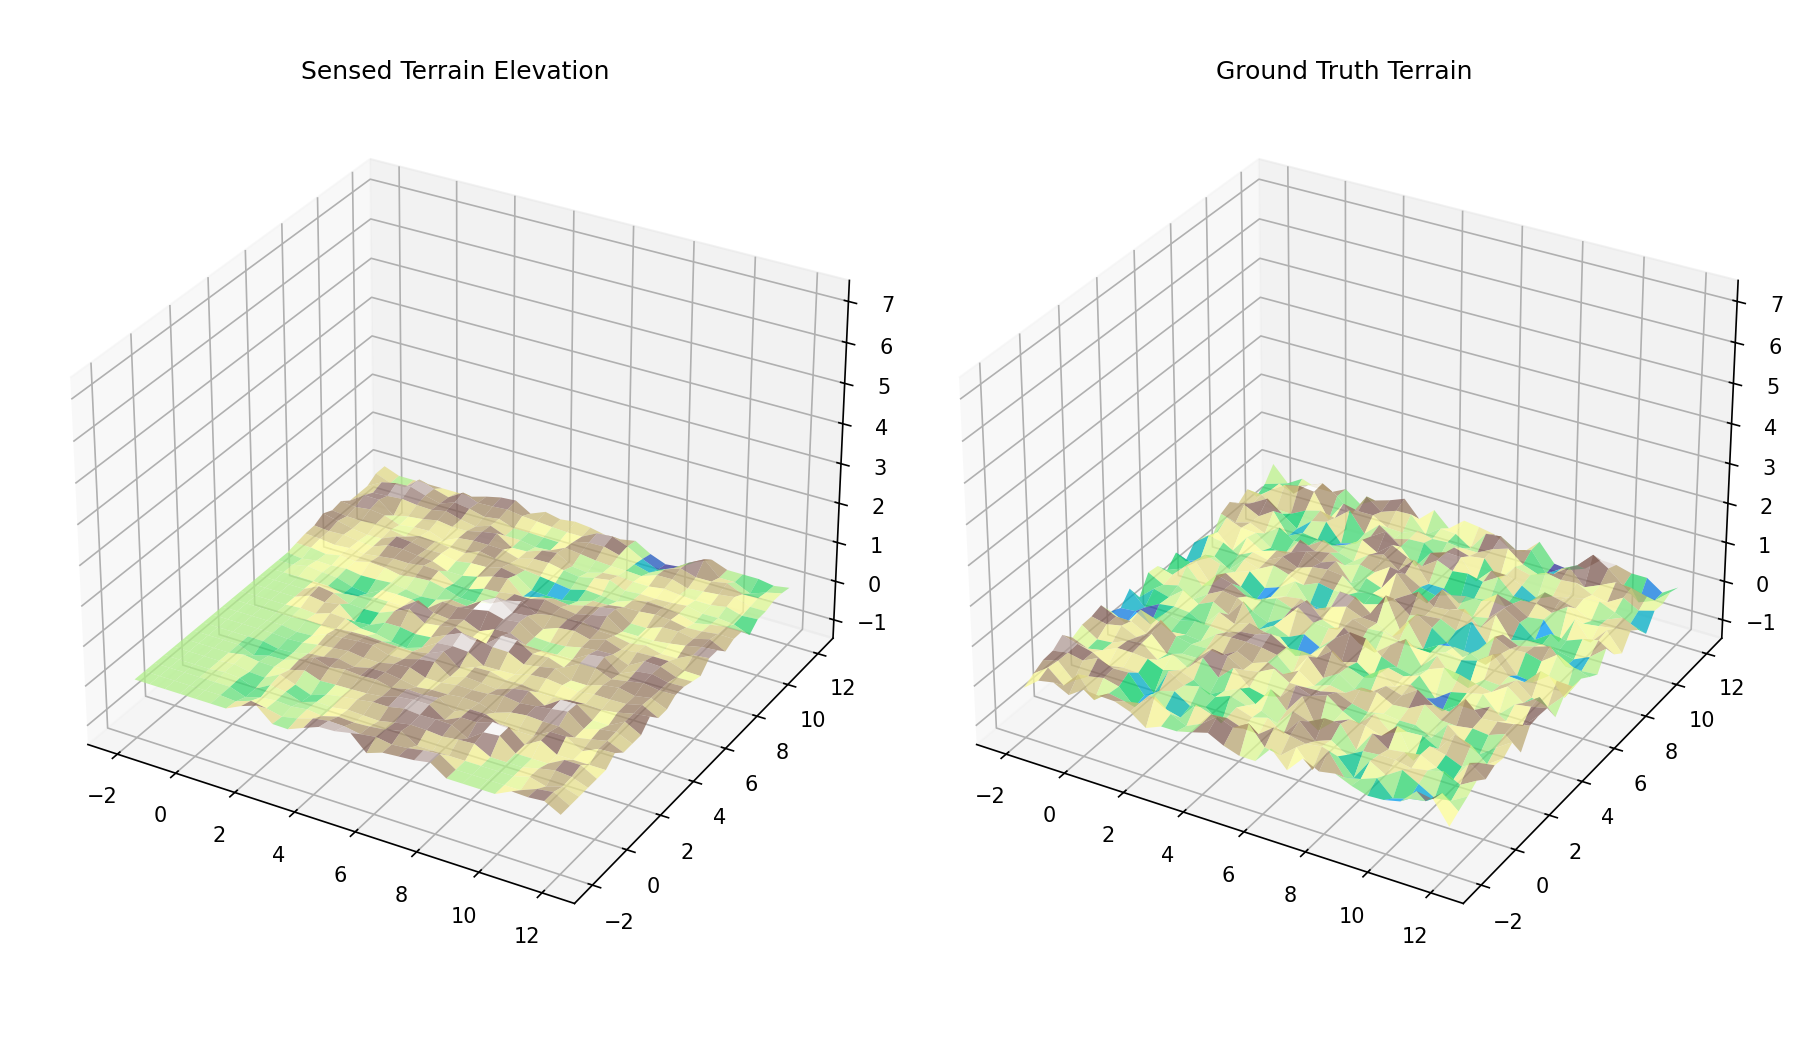
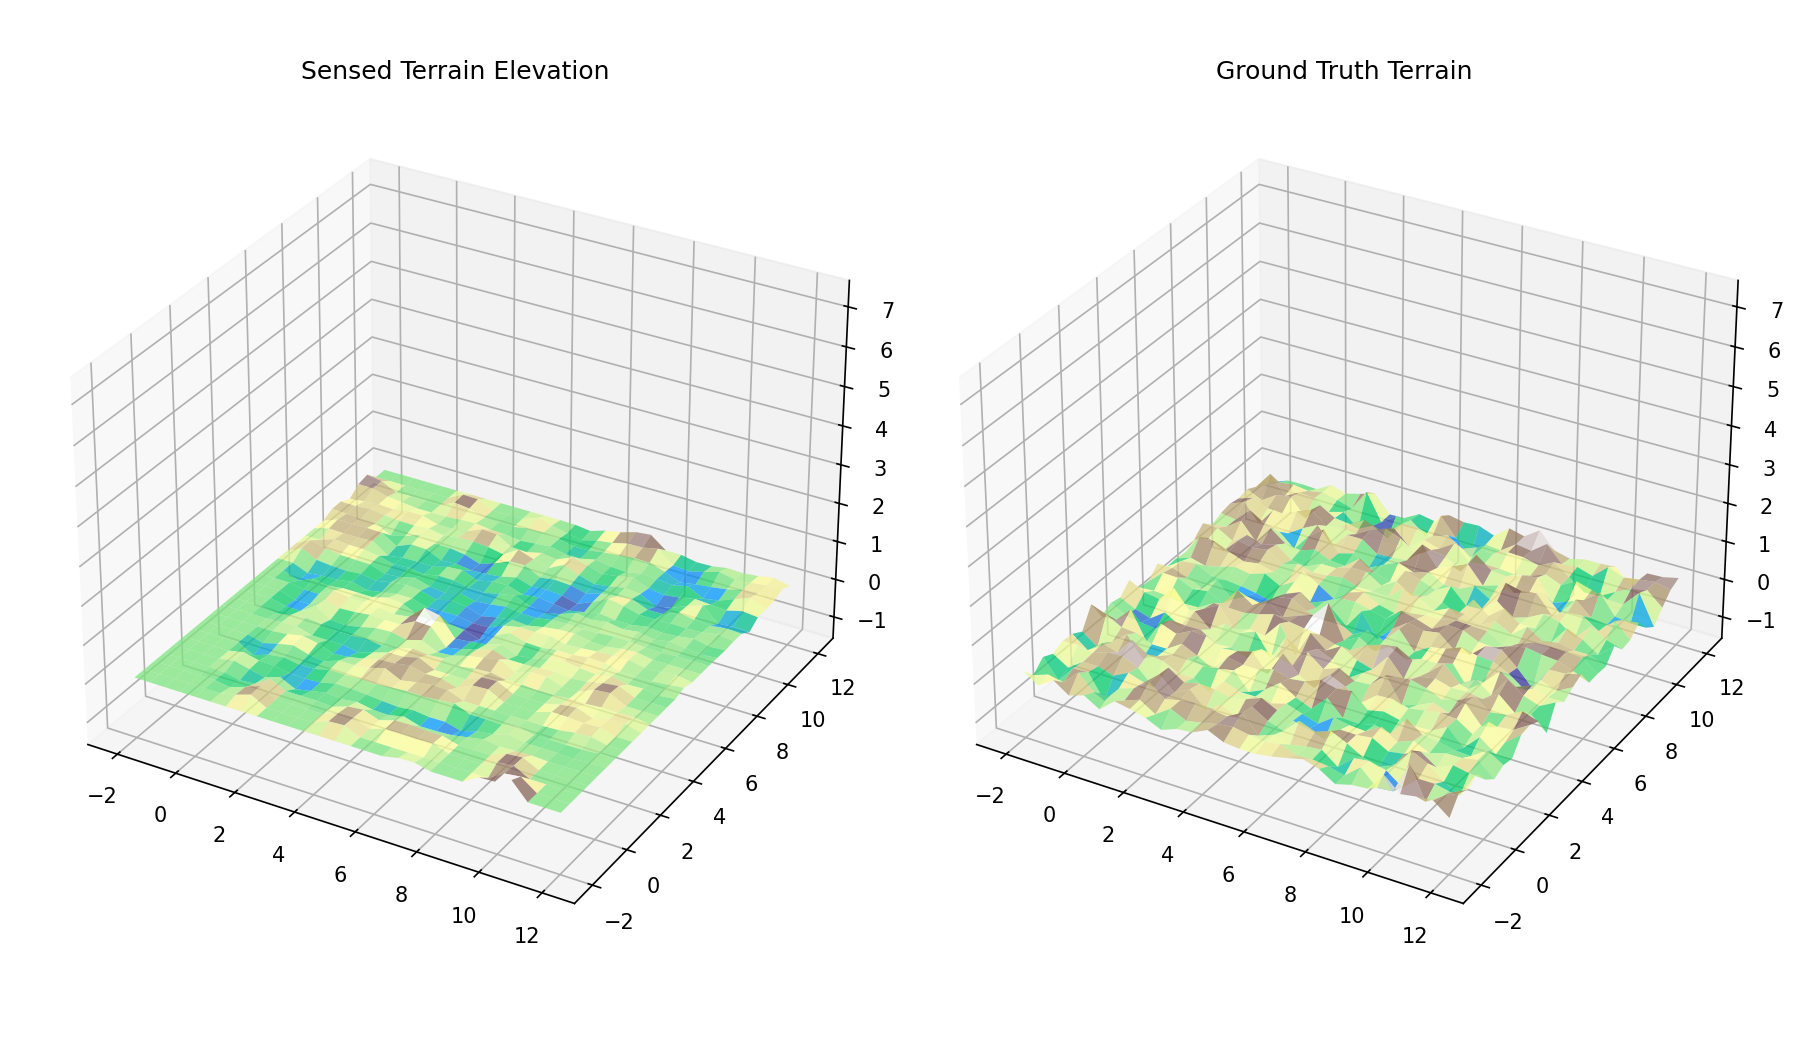
fixed critical classification bug

diff --git a/environments/terraneousEnv.py b/environments/terraneousEnv.py
@@ -183,7 +183,7 @@ class TerraneousEnv:
         self.obstacles: List[Obstacle] = []
 
         self.terrain = None  # Placeholder for future terrain-aware behavior
-        self.dx = 0.5  # Terrain grid resolution in x direction
+        self.dx = 0.05  # Terrain grid resolution in x direction
         self.dy = self.dx # Terrain grid resolution in y direction
 
     def add_obstacle(self, obstacle: Obstacle) -> None:
@@ -367,20 +367,19 @@ class TerraneousEnv:
         return all_trajs
 
     def generate_terrain(self, flat: bool) -> None:
+        from scipy.ndimage import gaussian_filter
         xmin, xmax, ymin, ymax = self.bounds
         terrain_size_x = int((xmax - xmin) / self.dx)
         terrain_size_y = int((ymax - ymin) / self.dy)
 
         if flat:
-            self.terrain = np.zeros((terrain_size_x, terrain_size_y), dtype=np.float32)  # Flat terrain has zero cost everywhere
+            self.terrain = np.zeros((terrain_size_x, terrain_size_y), dtype=np.float32)
             return
-
-        terrain_startpos_x = int(-xmin / self.dx)
-        terrain_startpos_y = int(-ymin / self.dy)
-        terrain_goalpos_x = int((10.0-xmin) / self.dx) # Change this if the goal is not at (10,10)
-        terrain_goalpos_y = int((10.0-ymin) / self.dy) # Change this if the goal is not at (10,10)
-
-        self.terrain = 0.25*np.linalg.norm(np.array([self.dx, self.dy]))*np.random.randn(terrain_size_x, terrain_size_y).astype(np.float32)
+        
+        sigma_cells = self.dx
+        raw = 0.25*self.dx*np.random.randn(terrain_size_x, terrain_size_y).astype(np.float32)
+        smooth = gaussian_filter(raw, sigma=sigma_cells)
+        self.terrain = smooth.astype(np.float32)
 
 
     def get_visualization_data(self) -> dict:

diff --git a/controllers/cuda_kernels.py b/controllers/cuda_kernels.py
@@ -397,23 +397,6 @@ def generate_samples_kernel(rng_states, samples, u_nominal, sigma, u_min, u_max,
                 samples[t, idx, d] = u
 
 @cuda.jit(device=True)
-def get_trav_cost(px, py, trav_cost, origin_x, origin_y, cell_size):
-    # Compute the traversal cost at position (px, py) by looking up the corresponding cell in the trav_cost grid
-    gx = (px - origin_x) / cell_size
-    gy = (py - origin_y) / cell_size
-
-    ix = int(gx)
-    iy = int(gy)
-
-    # Clamp indices to be within bounds
-    nx = trav_cost.shape[0]
-    ny = trav_cost.shape[1]
-    ix = max(0, min(nx - 1, ix))
-    iy = max(0, min(ny - 1, iy))
-
-    return trav_cost[ix, iy]
-
-@cuda.jit(device=True)
 def sign(x):
     if x > 0:
         return 1.0
@@ -612,10 +595,10 @@ def mc_cost_and_min_dist_terrain_kernel(
 
             if 0 <= grid_r < trav_rows and 0 <= grid_c < trav_cols:
                 trav_score = traversability[grid_r, grid_c]
-                if trav_score > 0.7:
-                    cost += 1000.0  # Impose a very high cost for traversing non-traversable terrain
+                if trav_score > 0.8:
+                    cost += 50.0  # Hard penalty for non-traversable terrain
                 elif trav_score > 0.4:
-                    cost += trav_score*10.0    # Impose a moderate cost for traversing partially traversable terrain
+                    cost += (trav_score-0.4)*10.0/0.4    # Soft penalty for cautious terrain
 
             # Boundary cost
             if px < bounds[0] + robot_radius:

diff --git a/src/terraneousMPPI_test.py b/src/terraneousMPPI_test.py
@@ -26,7 +26,7 @@ for i in range(0,7):
         Obstacle(position=[np.random.randint(2.0, 11.0), np.random.randint(2.0, 11.0)], 
                  radius=0.3+0.2*np.random.rand(),
                  velocity=[2.0*np.random.rand()-1.0, 2.0*np.random.rand()-1.0],
-                 mode=ObstacleMode.AVOIDANT if np.random.rand() < 0.6 else ObstacleMode.APATHETIC)
+                 mode=ObstacleMode.AVOIDANT)
     )
 
 # Add static circular obstacles
@@ -141,8 +141,8 @@ waypoint_selector = WaypointSelector(
     grid_half_size=6,
     goal_weight=25.0,
     obstacle_weight=30.0,
-    terrain_weight=20.0,
-    heading_weight=1.0,
+    terrain_weight=15.0,
+    heading_weight=1.5,
     d_safe=config.d_safe
 )
 
@@ -309,7 +309,7 @@ for step in range(num_steps):
               f"safe={is_safe}, "
               f"online={1e3*(_t_online-_t0):.1f}ms  wp={1e3*(_t_wp-_t_online):.1f}ms  mppi={1e3*_t_mppi:.1f}ms")
         
-    if step % 50 == 0 & step > 0:
+    if (step % 50 == 0) and (step > 0):
         recent_disp = np.linalg.norm(trajectory[-1][:2] - trajectory[-50][:2])
         if recent_disp < 0.2:
             mppi.reset_warm_start()

diff --git a/controllers/mppi_terraneous.py b/controllers/mppi_terraneous.py
@@ -224,6 +224,7 @@ class MPPITerraneous:
         cuda.to_device(x_goal.astype(np.float32),              to=self.d_x_goal)
         cuda.to_device(self.current_covariance.astype(np.float32), to=self.d_sigma)
         cuda.to_device(self.u_nominal.astype(np.float32),      to=self.d_u_nominal)
+        cuda.to_device(self.dem.traversability_overlay.astype(np.float32), to=self.d_traversability)
 
         threads = 128
         blocks  = (self.config.num_samples + threads - 1) // threads

diff --git a/terrain_estimators/DEM_builder.py b/terrain_estimators/DEM_builder.py
@@ -194,6 +194,6 @@ class DEMBuilder:
         cost_grid = self.get_traversability_cost()
         trrn_cost = cost_grid[rows, cols]
 
-        classification_cost = self.traversability_overlay[rows, cols]*50.0
+        classification_cost = self.traversability_overlay[rows, cols]
         total_cost = trrn_cost + classification_cost
         return total_cost
